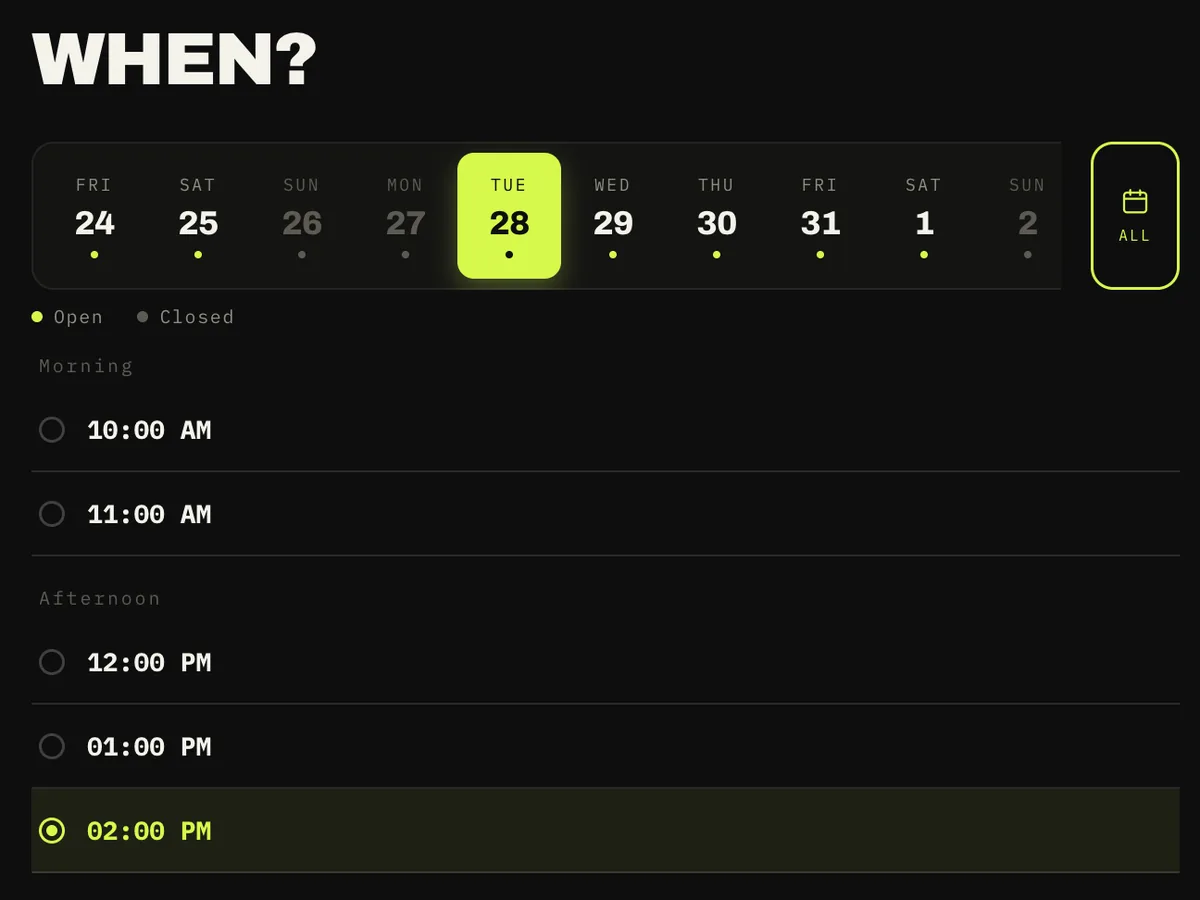
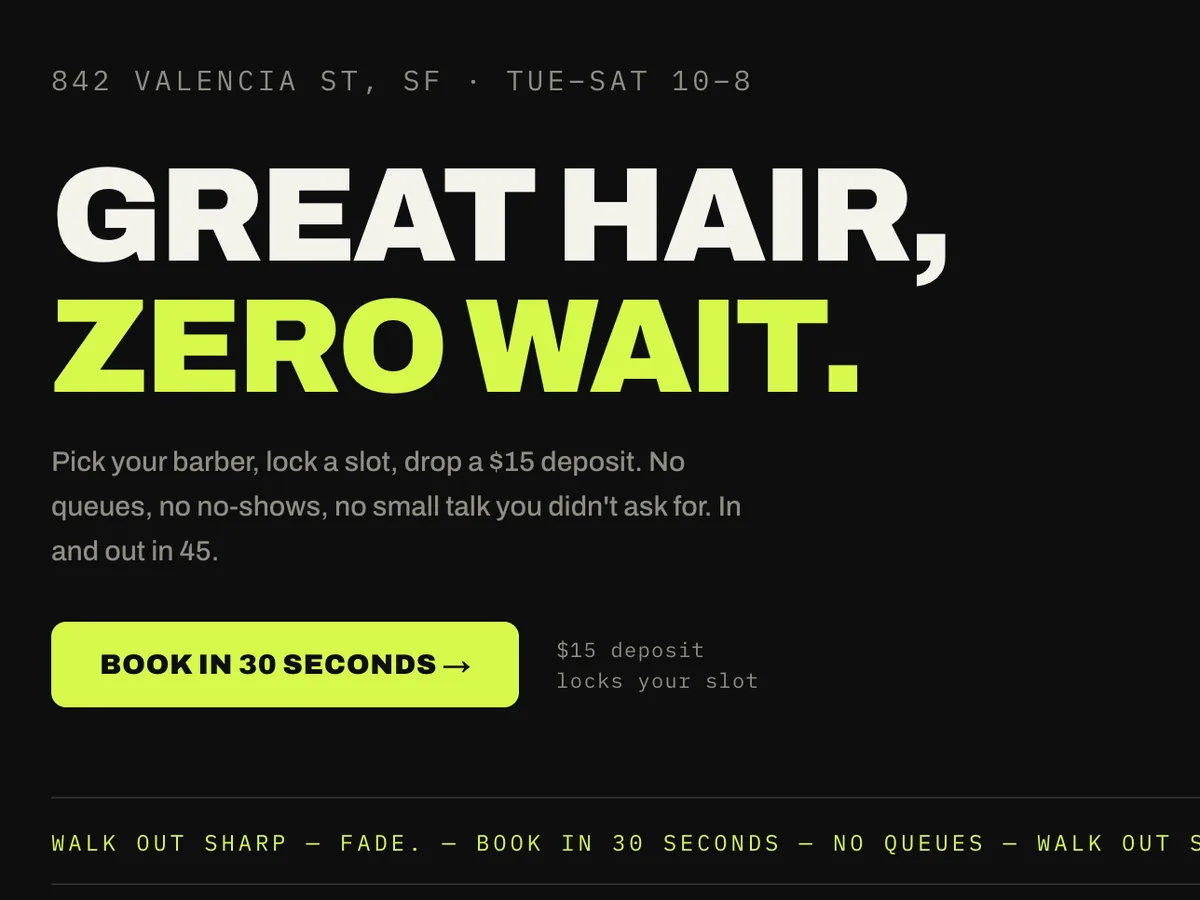
Project cards: preview crops come from each project's first screenshot

diff --git a/js/script.js b/js/script.js
@@ -48,7 +48,7 @@ const PROJECTS = [
     },
     tags: ["Next.js", "Express", "Stripe API"],
     link: { href: "https://github.com/PauloDourado22/Fade.", label: { en: "VIEW ON GITHUB", pt: "VER NO GITHUB" } },
-    crop: { src: SHOTS + "fade/crop.webp", w: 1200, h: 900, opens: 1, alt: { en: "Fade. date and time-slot picker", pt: "Seletor de data e horário do Fade." } },
+    crop: { src: SHOTS + "fade/crop.webp", w: 1200, h: 900, opens: 0, alt: { en: "Fade. landing page — \"Great hair, zero wait.\"", pt: "Página inicial do Fade. — \"Great hair, zero wait.\"" } },
     shots: [
       { src: SHOTS + "fade/crew-menu.webp", sm: SHOTS + "fade/crew-menu-1600.webp", w: 3156, h: 1684, alt: { en: "Fade. crew and menu listing with prices", pt: "Equipa e menu de serviços do Fade., com preços" } },
       { src: SHOTS + "fade/booking.webp", sm: SHOTS + "fade/booking-1600.webp", w: 3156, h: 1684, alt: { en: "Fade. booking flow — date and time slot picker", pt: "Marcação no Fade. — seletor de data e horário" } },
@@ -63,7 +63,7 @@ const PROJECTS = [
     },
     tags: ["Next.js", "Express", "SQLite"],
     link: { href: "https://github.com/PauloDourado22/ILDA", label: { en: "VIEW ON GITHUB", pt: "VER NO GITHUB" } },
-    crop: { src: SHOTS + "ilda/crop.webp", w: 1200, h: 900, opens: 1, alt: { en: "ILDA's owner-editable daily menu", pt: "Menu do dia da ILDA, editado pelo proprietário" } },
+    crop: { src: SHOTS + "ilda/crop.webp", w: 1200, h: 900, opens: 0, alt: { en: "ILDA landing page — \"Where you feel like home\"", pt: "Página inicial da ILDA — \"Where you feel like home\"" } },
     shots: [
       { src: SHOTS + "ilda/landing.webp", sm: SHOTS + "ilda/landing-1600.webp", w: 3156, h: 1684, alt: { en: "ILDA landing page — \"Where you feel like home\"", pt: "Página inicial da ILDA — \"Where you feel like home\"" } },
       { src: SHOTS + "ilda/menu-about.webp", sm: SHOTS + "ilda/menu-about-1600.webp", w: 3156, h: 1684, alt: { en: "ILDA's live, owner-editable daily menu, scrolling into the About/Space gallery", pt: "Menu do dia da ILDA, editável pelo proprietário, a seguir para a galeria do espaço" } },
